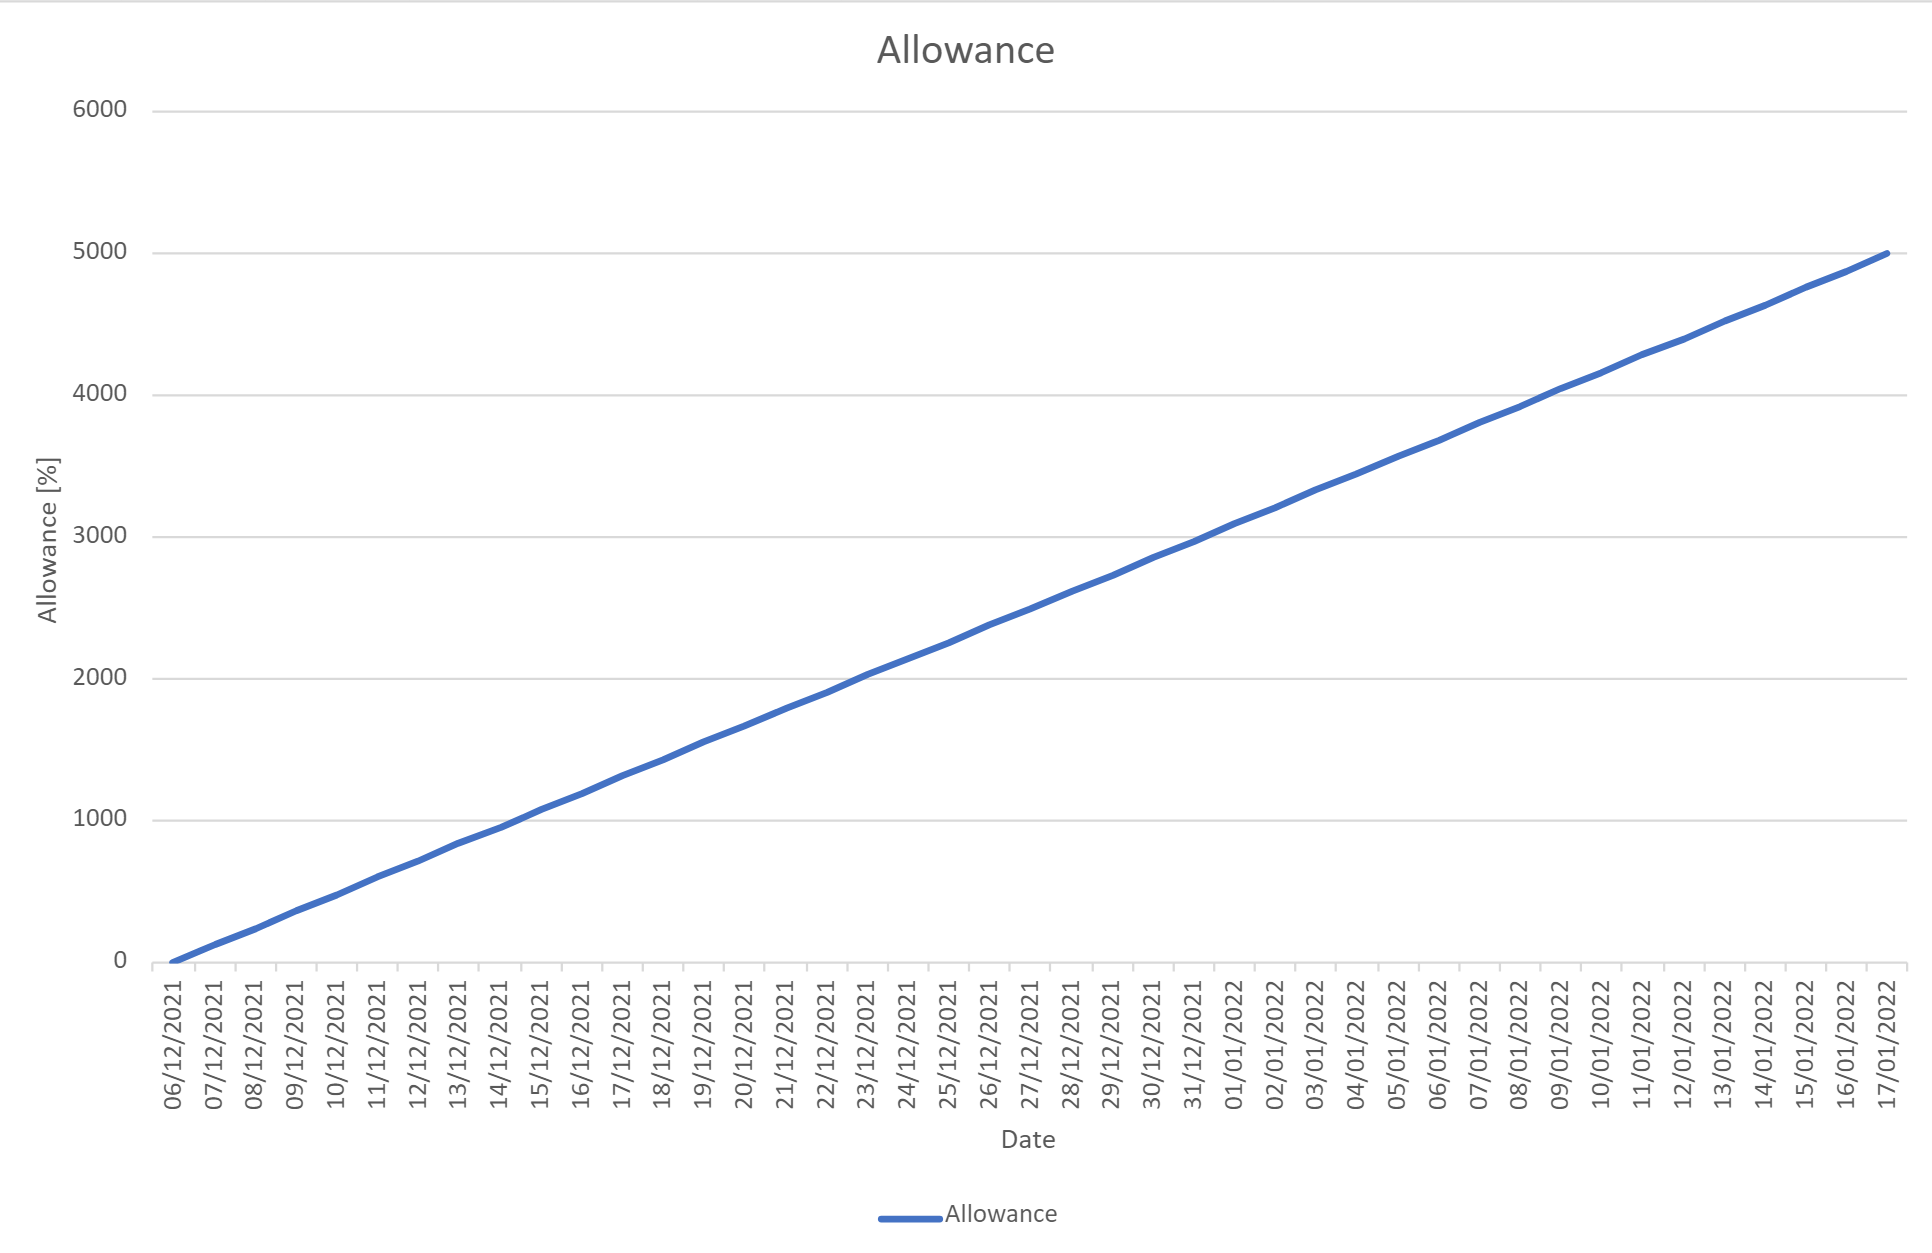
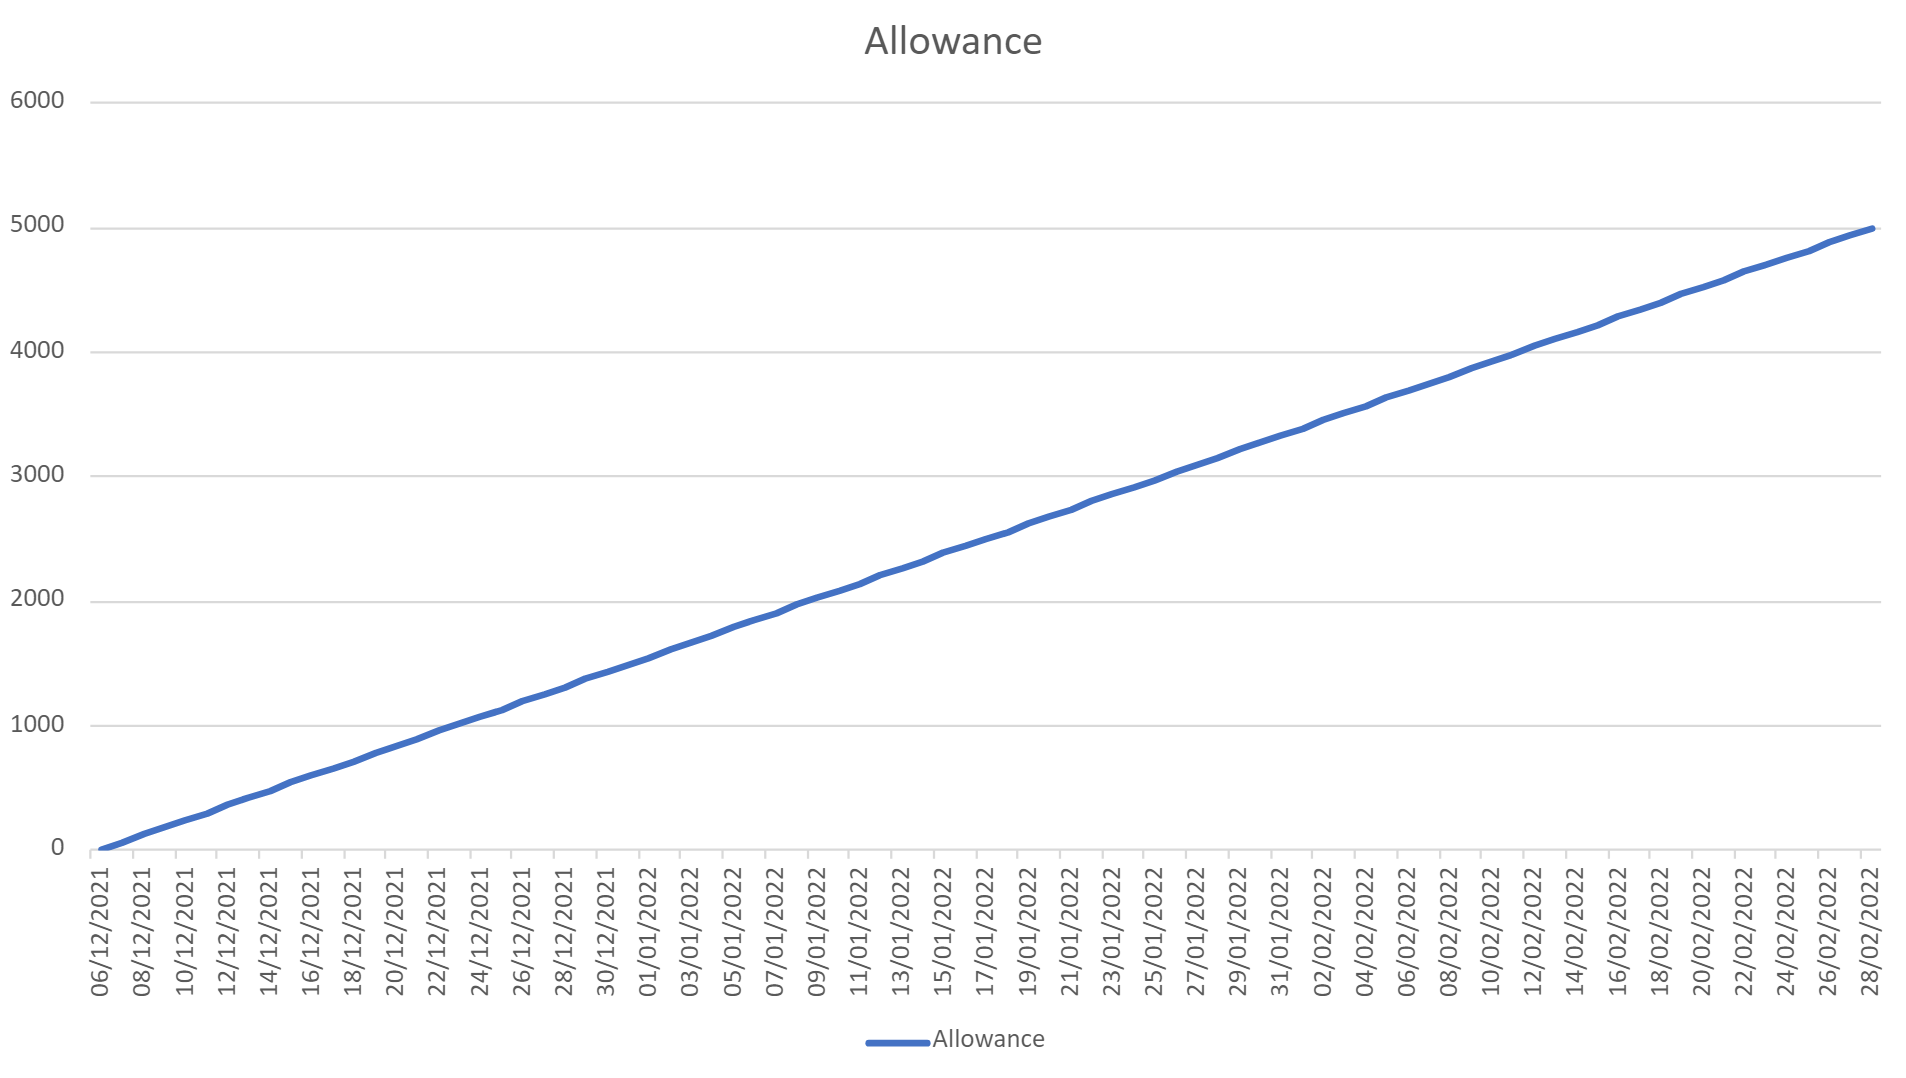
GitBook: [#64] :memo: Vesting period increased to 12 weeks

diff --git a/additional-info/vesting.md b/additional-info/vesting.md
@@ -17,7 +17,7 @@ Considering:
 
 The Monetary Policy Committee (MPC) had a extraordinary pre-birthday meeting and deliberated the following:
 
-* Presale investors will receive their HUH tokens through an initial vesting period of 6 weeks. The vesting period starts on December 6th 2021 to January 17th 2021 for presale investors.
+* Presale investors will receive their HUH tokens through an initial vesting period of 12 weeks. The vesting period starts on December 6th 2021 to February 28th 2021 for presale investors.
 * Presale investors will receive fifty times more tokens.
 
 The vesting has been added as an important mechanism to safeguard community interests and at the same time strengthen the long term vision with a plethora of technologies at HUH disposal.
